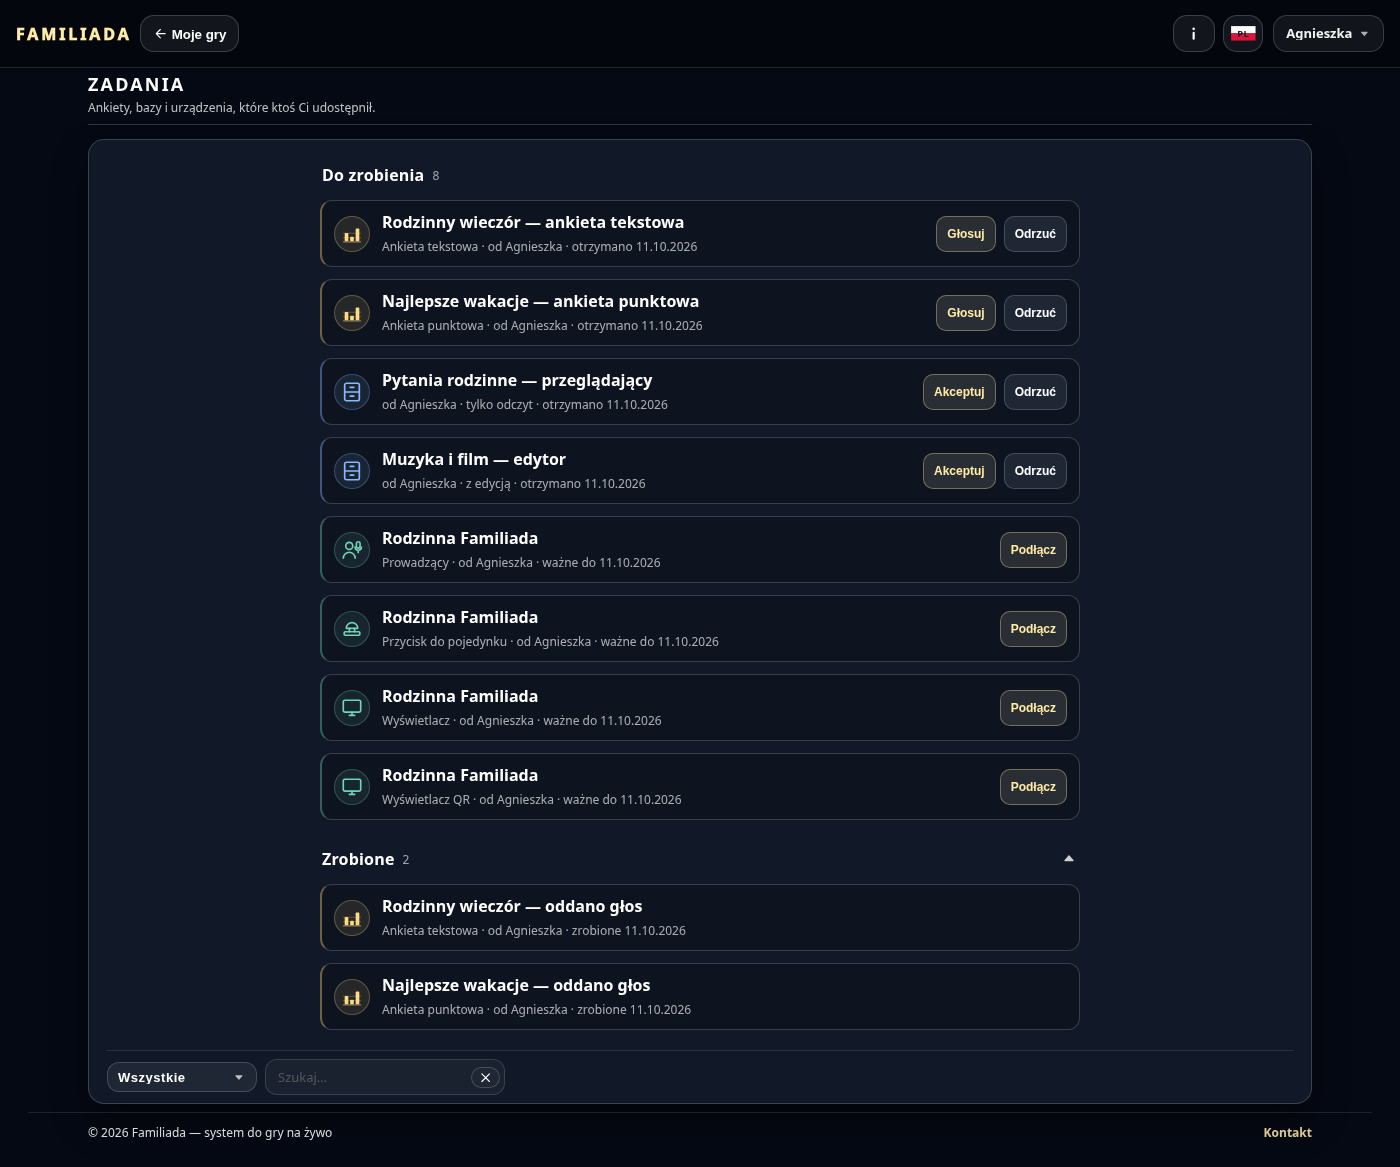
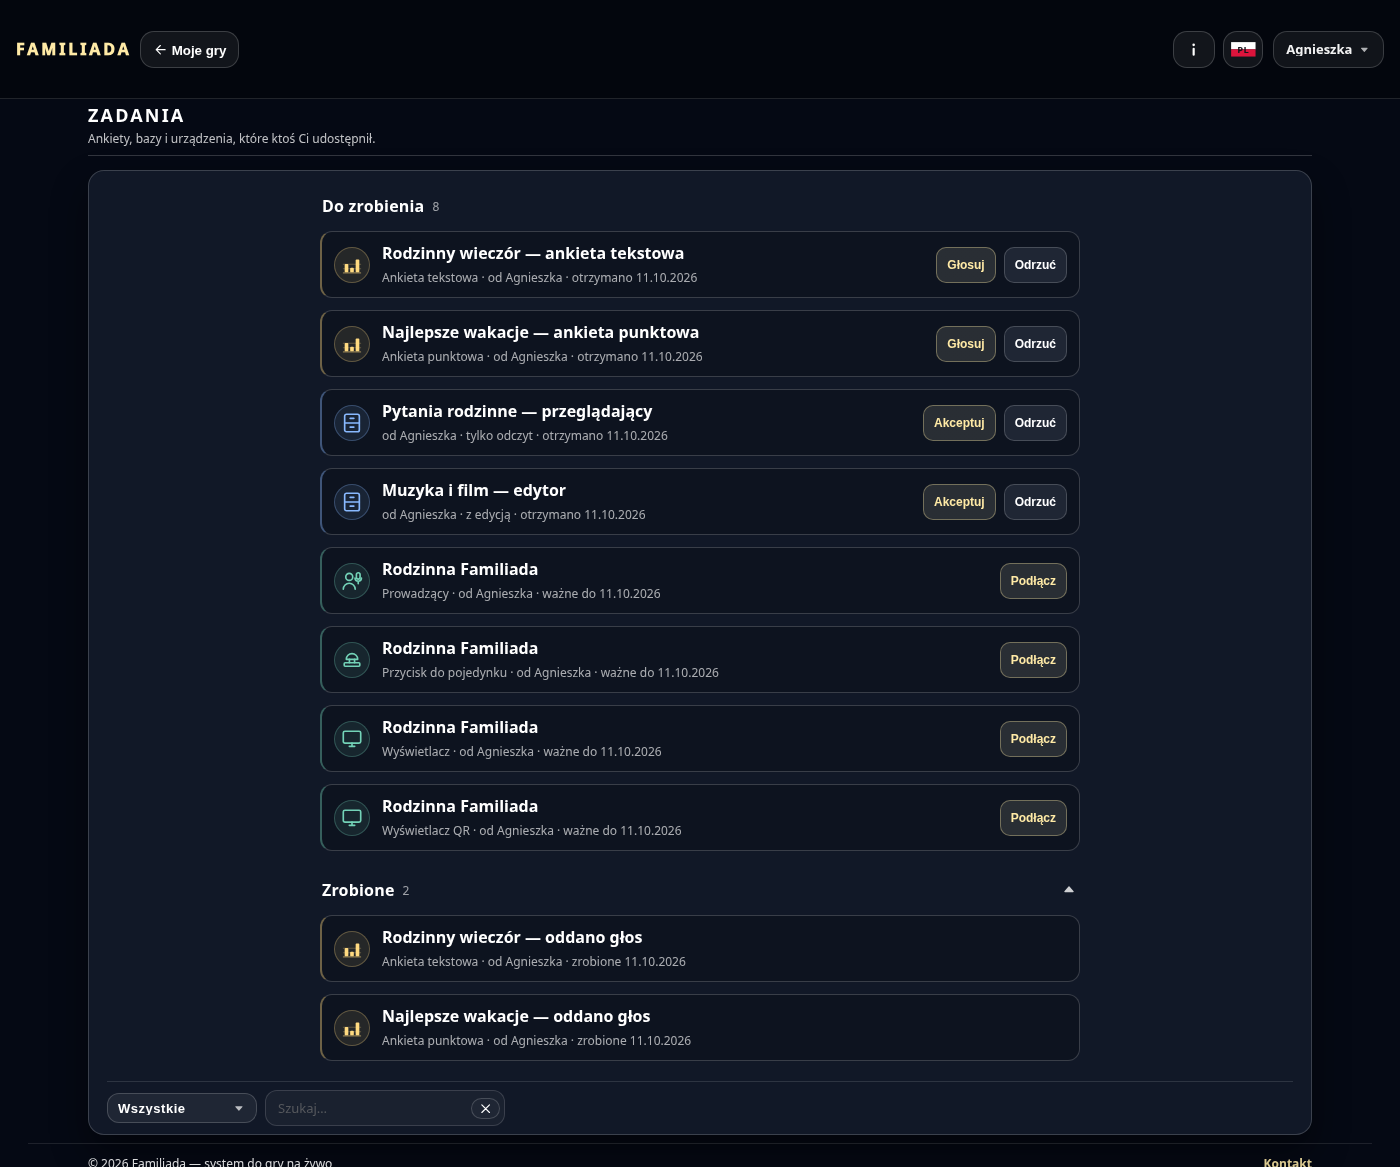
Compact mobile Tasks tiles with short descriptions and two-line limits

Changed region(s): [[0.0, 0.0, 0.9521, 1.0], [0.645, 0.1851, 0.7679, 0.7095], [0.86, 0.0, 0.9829, 0.0617]]

diff --git a/web/shared/js/core/share-sections.js b/web/shared/js/core/share-sections.js
@@ -161,6 +161,7 @@ const ROW_CHANNELS = ["friend", "subscriber", "mail"];
  * @param {string} [row.avatar]   tekst, z którego bierzemy inicjał (domyślnie tytuł)
  * @param {string} [row.avatarIcon] ikona pochodzenia zamiast inicjału
  * @param {string} [row.note]     szara linijka stanu
+ * @param {string} [row.noteMobile] skrócony opis na telefonie
  * @param {"friend"|"subscriber"|"mail"} [row.channel]
  * @param {Record<string,string>} [row.data]  atrybuty data-* wiersza (np. kind)
  * @param {{key:string,text?:string,icon?:string,title?:string,gold?:boolean,iconOnly?:boolean,disabled?:boolean,onClick:Function}[]} [row.actions]
@@ -179,7 +180,8 @@ export function rowEl(row) {
     <span class="rowsAvatar" aria-hidden="true">${row.avatarIcon ? icon(row.avatarIcon) : esc(initial.toLocaleUpperCase())}</span>
     <div class="rowsMain">
       <div class="rowsTitle" title="${esc(row.title)}">${esc(row.title)}</div>
-      ${noteParts.length ? `<div class="rowsNote">${noteParts.join(" · ")}</div>` : ""}
+      ${noteParts.length ? `<div class="rowsNote${row.noteMobile != null ? " rowsNote--desktop" : ""}">${noteParts.join(" · ")}</div>` : ""}
+      ${row.noteMobile != null ? `<div class="rowsNote rowsNote--mobile">${esc(row.noteMobile)}</div>` : ""}
     </div>
     <div class="rowsActions"></div>`;
   const acts = el.querySelector(".rowsActions");

diff --git a/web/tasks/js/tasks.js b/web/tasks/js/tasks.js
@@ -78,6 +78,7 @@ function rowOf(task) {
     return {
       ...base,
       title: task.title,
+      noteMobile: [type, owner].join(" · "),
       note: [type, owner, done ? t("tasks.doneAt", { date: fmtDate(task.done_at) }) : t("tasks.received", { date: fmtDate(task.created_at) })].join(" · "),
       actions: done ? [] : [
         { key: "vote", text: t("tasks.actions.vote"), icon: "polls", gold: true, onClick: () => { location.href = pollVoteHref(task); } },
@@ -90,6 +91,7 @@ function rowOf(task) {
     return {
       ...base,
       title: task.title,
+      noteMobile: [owner, role].join(" · "),
       note: [owner, role, t("tasks.received", { date: fmtDate(task.created_at) })].join(" · "),
       actions: [
         { key: "accept", text: t("tasks.actions.accept"), icon: "check", gold: true, onClick: () => respondBase(task, "base_share_accept", "tasks.errors.accept") },
@@ -101,6 +103,7 @@ function rowOf(task) {
   return {
     ...base,
     title: task.title,
+    noteMobile: [typeLabel, owner].join(" · "),
     note: [typeLabel, owner, task.expires_at ? t("tasks.expires", { date: fmtDate(task.expires_at) }) : ""].filter(Boolean).join(" · "),
     actions: [
       { key: "connect", text: t("tasks.actions.connect"), icon: "arrow-right", gold: true, onClick: () => { location.href = linkTo("connectDevice", { share: task.id }); } },

diff --git a/tests/e2e/tasks.spec.js b/tests/e2e/tasks.spec.js
@@ -103,6 +103,15 @@ for (const width of [1400, 390]) {
         const sourceIcon = task.kind === "poll" ? "polls" : task.kind === "base" ? "drawer" : task.device_type === "poll_qr" ? "display" : task.device_type;
         await expect(row.locator(`.rowsAvatar svg.ico-${sourceIcon}`)).toHaveCount(1);
         await expect(row.locator(".rowsAvatar")).toHaveText("");
+        if (width === 390) {
+          await expect(row.locator(".rowsNote--desktop")).toBeHidden();
+          await expect(row.locator(".rowsNote--mobile")).toBeVisible();
+          await expect(row.locator(".rowsNote--mobile")).not.toContainText("11.10.2026");
+          expect((await row.boundingBox()).height).toBeLessThanOrEqual(104);
+        } else {
+          await expect(row.locator(".rowsNote--desktop")).toBeVisible();
+          await expect(row.locator(".rowsNote--mobile")).toBeHidden();
+        }
         const actions = task.state === "done" ? [] : task.kind === "poll" ? ["vote", "decline"] : task.kind === "base" ? ["accept", "decline"] : ["connect"];
         await expect(row.locator(".rowsAct")).toHaveCount(actions.length);
         for (const action of actions) await expect(row.locator(`[data-act="${action}"]`)).toHaveAttribute("aria-label", /.+/);

diff --git a/web/tasks/css/tasks.css b/web/tasks/css/tasks.css
@@ -65,3 +65,19 @@ body.games-body > main.wrap > .bar{
   background: rgba(var(--task-accent), .10);
   border-color: rgba(var(--task-accent), .28);
 }
+
+/* Telefon: krótka treść, bez dat, ograniczona wysokość kafelka. */
+@media (max-width: 640px){
+  .tasks-card .rowsRow{ gap: 8px; }
+  .tasks-card .rowsAvatar{ width: 30px; height: 30px; }
+  .tasks-card .rowsAvatar > svg{ width: 20px; height: 20px; }
+  .tasks-card .rowsTitle,
+  .tasks-card .rowsNote--mobile{
+    display: -webkit-box;
+    -webkit-box-orient: vertical;
+    -webkit-line-clamp: 2;
+    overflow: hidden;
+  }
+  .tasks-card .rowsTitle{ line-height: 1.25; }
+  .tasks-card .rowsNote{ margin-top: 3px; line-height: 1.35; }
+}

diff --git a/web/shared/css/base.css b/web/shared/css/base.css
@@ -2391,6 +2391,11 @@ button.rowsSectionHead{ cursor: pointer; }
 .rowsMain{ flex: 1 1 auto; min-width: 0; }
 .rowsTitle{ overflow: hidden; text-overflow: ellipsis; white-space: nowrap; font-weight: 700; }
 .rowsNote{ margin-top: 3px; font-size: 12px; line-height: 1.3; opacity: .65; overflow: hidden; text-overflow: ellipsis; white-space: nowrap; }
+.rowsNote--mobile{ display: none; }
+@media (max-width: 640px){
+  .rowsNote--desktop{ display: none; }
+  .rowsNote--mobile{ display: block; }
+}
 .rowsChannel{ font-weight: 700; }
 .rowsActions{ display: inline-flex; align-items: center; gap: 6px; flex: 0 0 auto; }
 .rowsAct .rowsActIcon{ display: none; width: 16px; height: 16px; }

diff --git a/docs/wdrozenia.md b/docs/wdrozenia.md
@@ -315,3 +315,5 @@ Stan szczegółowy:
 | 2026-10-11 | Zadania / kolory rodzajów — doprecyzowanie | Użytkownik prosi o lekkie oznaczenie kolorystyczne. Dodano trzy dyskretne akcenty ikony i lewej krawędzi: ankieta złoto, baza niebieski, urządzenie zielonkawy. Test przeglądu wymaga trzech różnych kolorów, ikony i opis pozostają niezależnym oznaczeniem. | Zrzuty odświeżyć; ostatnia paczka wymaga ponownego branch E2E przed Pages. |
 
 | 2026-10-11 | Zadania / ikony i kolory — branch zielony | Ikony: 38139586940 ✓. Pełna paczka kolorów i ikon: 38139676754 ✓, 3/3 bez retry, unit 408/408. Test wymaga poprawnych SVG we wszystkich 10 wariantach i trzech różnych akcentów na desktop/mobile; rzeczywista akceptacja bazy także ✓. Odświeżono zrzuty. | Promocja main, Pages, ten sam punktowy test na opublikowanych plikach. |
+
+| 2026-10-11 | Zadania / ikony i kolory wdrożone, korekta mobile | Pages 38139801058 ✓; kontrola produkcyjna 38139841640 ✓ (3/3), unit 408/408. Nowe zgłoszenie: zbyt dużo informacji i zbyt wysokie kafelki na telefonie. Skrócony opis bez dat, limit dwóch linii tytułu/opisu, mniejsza ikona. Desktop pełny. Test wymaga wysokości mobilnych wariantów ≤104 px, zachowania ikon/kolorów i właściwego wariantu tekstu. | Zrzuty, unit i kolejny punktowy tasks przed Pages. |

diff --git a/docs/e19-znajomi-plan.md b/docs/e19-znajomi-plan.md
@@ -468,3 +468,5 @@ Zrzuty po poprawce:
 **Decyzja użytkownika — ikony pochodzenia Zadania (2026-10-11):** po lewej zamiast inicjału nadawcy ikona rodzaju zasobu: ankieta `polls`, baza `drawer`, urządzenia `host` / `buzzer` / `display` (również wyświetlacz QR). Nazwa nadawcy pozostaje w opisie. Ikona jest taka sama przed i po wykonaniu ankiety. Wspólny renderer wierszy obsługuje opcjonalne `avatarIcon`; korzysta ze wspólnego silnika ikon.
 
 **Doprecyzowanie kolorów Zadania (2026-10-11):** delikatne oznaczenie rodzaju zasobu: ankiety złote, bazy niebieskie, urządzenia zielonkawe. Kolor ikony, jej subtelne tło i lewa krawędź kafelka; teksty/akcje nadal wspólne. Kolor nie zastępuje ikony ani nazwy rodzaju. To samo oznaczenie ankiety w Do zrobienia i Zrobione.
+
+**Korekta mobilnych kafelków Zadania (2026-10-11):** użytkownik zgłosił zbyt dużo informacji i nadmierną wysokość. Na telefonie skrócony opis bez dat otrzymania, głosowania i ważności; pozostaje rodzaj/rola oraz nadawca. Tytuł i opis maksymalnie po dwie linie, ikona pochodzenia 30 px. Pełny opis nadal na komputerze. Zastępuje wcześniejsze doprecyzowanie pełnego zawijania tekstów na mobile; wykonana poprawka odstępów zostaje.
